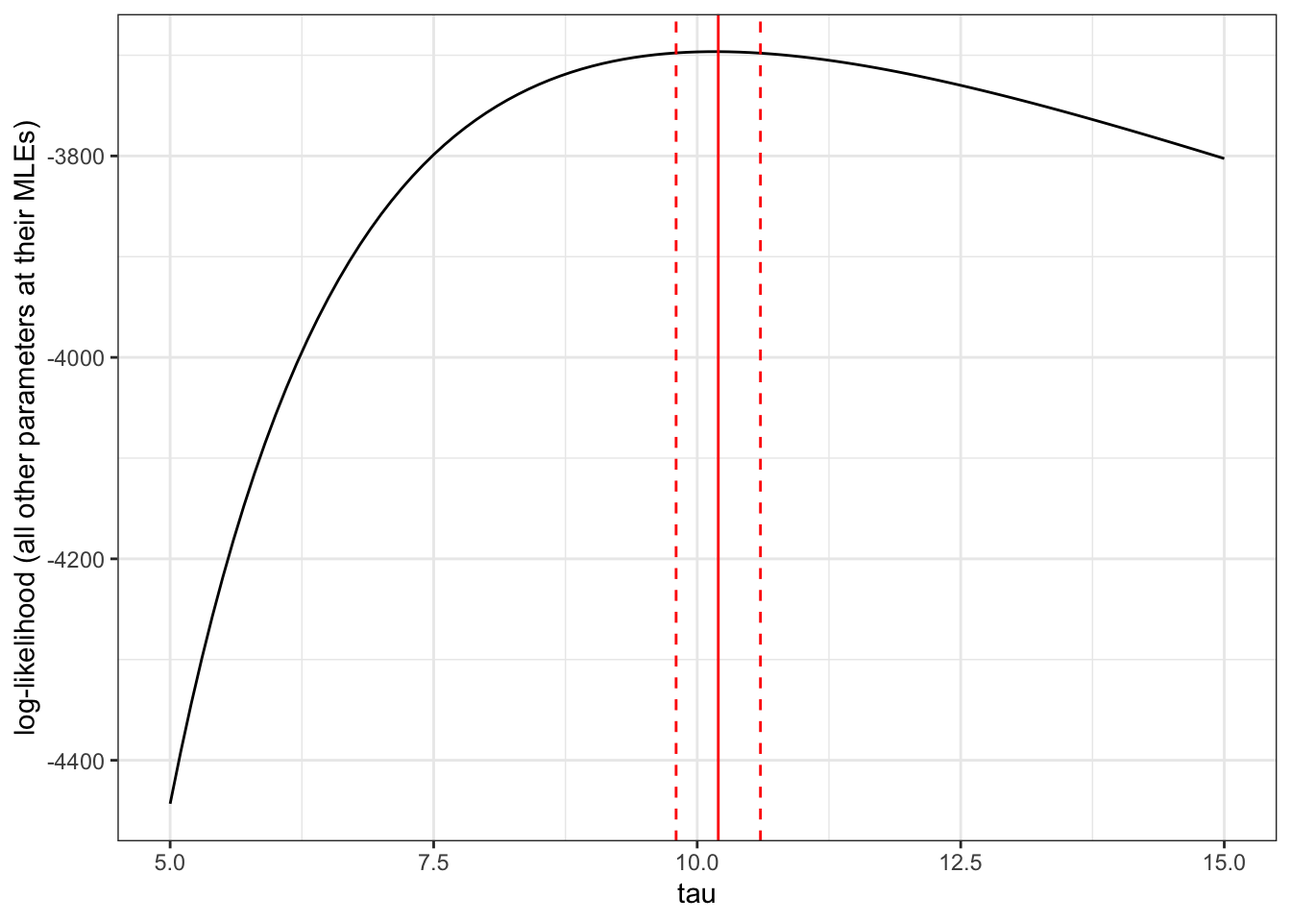
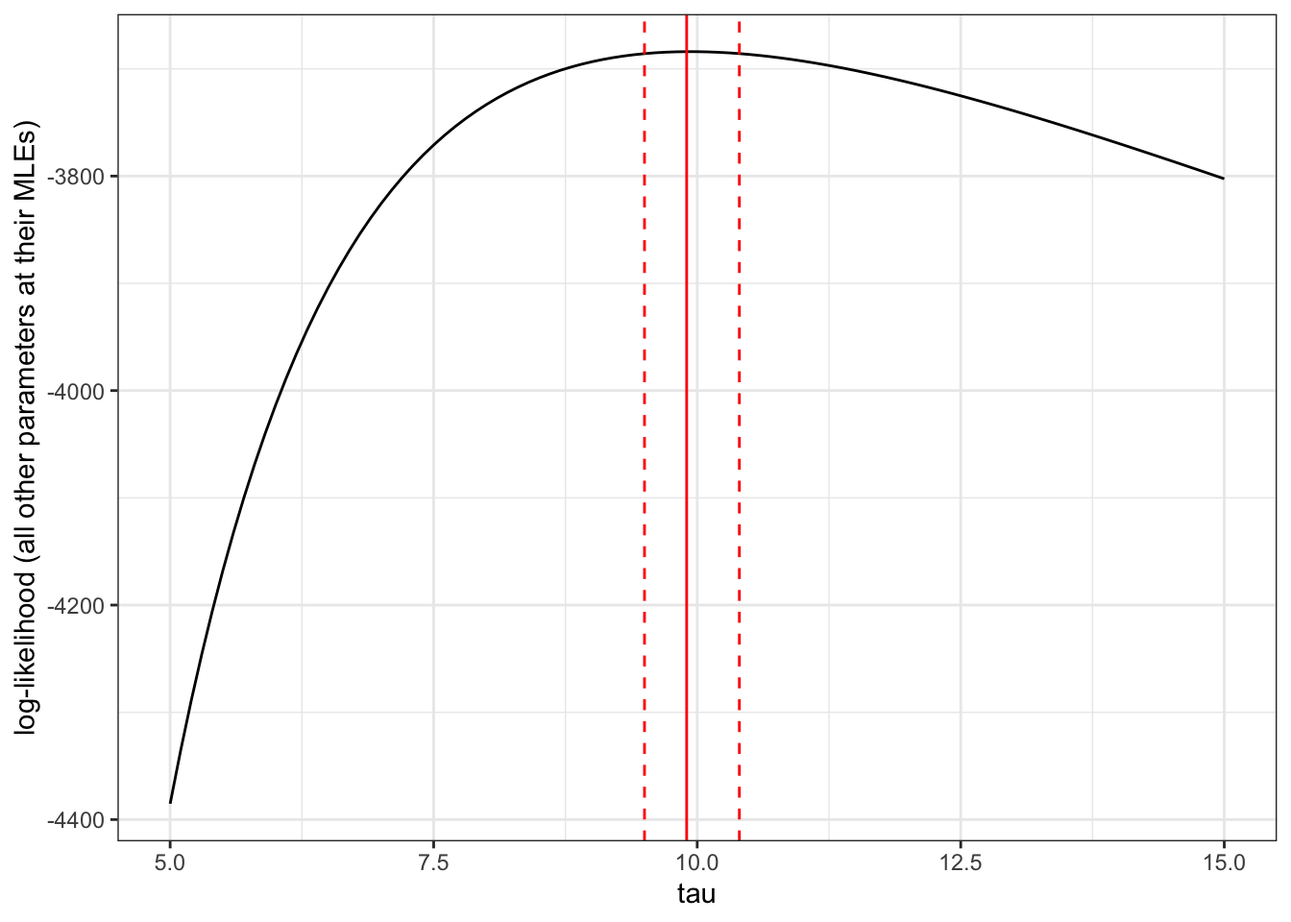
Built site for gh-pages

diff --git a/lec07-intro-to-stats.html b/lec07-intro-to-stats.html
@@ -352,7 +352,7 @@ pre > code.sourceCode > span > a:first-child::before { text-decoration: underlin
 <li>The probability of the event <span class="math inline">\(\Omega\)</span> must be <span class="math inline">\(=1\)</span>. <em>Something</em> must have happened!</li>
 <li>Countably many mutually exclusive events <span class="math inline">\(A_1,A_2,\dots,\)</span> must satisfy the following:</li>
 </ul>
-<p><span class="math display">\[\Pr (A_1 \text{ and } A_2 \text{ and } A_3 \text{ and } \cdots) = \sum_{i=1}^\infty \Pr (A_i)\]</span></p>
+<p><span class="math display">\[\Pr (A_1 \text{ or } A_2 \text{ or } A_3 \text{ or } \cdots) = \sum_{i=1}^\infty \Pr (A_i)\]</span></p>
 <p><span class="math inline">\(A_1,\dots,A_n,\dots\)</span> are mutually exclusive if <span class="math inline">\(A_i, A_j\)</span> do not share outcomes for all <span class="math inline">\(i \neq j\)</span>. (The events <span class="math inline">\(A_1 = \{1,2\}\)</span> and <span class="math inline">\(A_2 = \{3,4\}\)</span> are distinct, while the events <span class="math inline">\(A_1 = \{1,3\}\)</span> and <span class="math inline">\(A_2 = \{3,4\}\)</span> are not..)</p>
 <p>In the case of rolling a four-sided die, the probability of all events can be calculated (due to the extra conditions) by specifying what the probability of each outcome. Suppose <span class="math inline">\(\Pr(\{1\}) = 0.2, \Pr(\{2\}) = 0.3, \Pr(\{3\}) = \Pr(\{4\}) = 0.25\)</span>, i.e., the die is not fair but not horribly biased to one side.</p>
 <p>A random variable is <em>the (uncertain) outcome of a random experiment</em>; more precisely, a RV is a function from the sample space to the real numbers. In the above example, the experiment is the roll of a four-sided die and the outcomes are 1,2,3, and 4. The random variable, which we call <span class="math inline">\(X\)</span>, has an associated probability distribution: <span class="math inline">\(\Pr(X = 1) = 0.2, \Pr(X = 2) = 0.3, \Pr(X = 3) = \Pr(X = 4) = 0.25\)</span>. Capital letters are often used to denote random variables and lower case letters to denote the values they can assume (i.e., elements of their range). We can use this probability distribution to simulate realizations (draws) of <span class="math inline">\(X\)</span>, which correspond to repeatedly and independently preforming the experiment:</p>
@@ -364,9 +364,9 @@ pre > code.sourceCode > span > a:first-child::before { text-decoration: underlin
 <span id="cb2-5"><a href="#cb2-5" aria-hidden="true" tabindex="-1"></a>                                   <span class="at">replace =</span> T)</span>
 <span id="cb2-6"><a href="#cb2-6" aria-hidden="true" tabindex="-1"></a>realizations_N_die_rolls</span></code><button title="Copy to Clipboard" class="code-copy-button"><i class="bi"></i></button></pre></div>
 <div class="cell-output cell-output-stdout">
-<pre><code>  [1] 4 3 1 4 3 4 3 4 4 3 4 3 3 3 3 3 1 1 4 4 2 4 3 3 1 4 4 4 2 2 2 2 4 3 3 2 3
- [38] 2 2 2 3 1 1 3 1 2 2 4 4 2 2 3 2 1 2 2 3 2 4 4 2 1 2 4 2 1 2 2 4 4 2 3 2 3
- [75] 3 4 1 2 4 1 1 2 2 1 1 4 1 1 1 1 3 4 2 3 1 4 3 2 4 3</code></pre>
+<pre><code>  [1] 4 1 3 4 2 1 1 4 4 4 4 2 4 1 2 4 1 2 2 1 4 4 1 4 3 1 2 3 3 2 3 1 3 1 3 2 4
+ [38] 3 4 2 2 1 4 3 2 1 2 1 1 1 3 3 1 2 1 3 2 3 4 2 2 3 1 4 3 1 4 1 1 2 1 2 3 1
+ [75] 2 2 1 3 2 2 4 4 2 2 4 4 1 3 3 4 2 3 1 1 3 1 2 4 4 3</code></pre>
 </div>
 <div class="sourceCode cell-code" id="cb4"><pre class="sourceCode r code-with-copy"><code class="sourceCode r"><span id="cb4-1"><a href="#cb4-1" aria-hidden="true" tabindex="-1"></a>realizations_N_die_rolls <span class="ot">&lt;-</span> <span class="fu">data.frame</span>(<span class="at">value =</span> realizations_N_die_rolls)</span>
 <span id="cb4-2"><a href="#cb4-2" aria-hidden="true" tabindex="-1"></a><span class="fu">ggplot</span>(realizations_N_die_rolls, </span>
@@ -402,9 +402,9 @@ pre > code.sourceCode > span > a:first-child::before { text-decoration: underlin
 <span id="cb8-4"><a href="#cb8-4" aria-hidden="true" tabindex="-1"></a></span>
 <span id="cb8-5"><a href="#cb8-5" aria-hidden="true" tabindex="-1"></a><span class="fu">bernouli</span>(<span class="fl">0.1</span>, <span class="dv">100</span>) <span class="do">### 100 realizations of a Bernouli(p = 0.1) RV</span></span></code><button title="Copy to Clipboard" class="code-copy-button"><i class="bi"></i></button></pre></div>
 <div class="cell-output cell-output-stdout">
-<pre><code>  [1] 0 0 0 0 0 0 0 0 0 1 0 0 0 0 0 0 0 0 0 0 0 0 0 0 0 0 0 0 0 0 0 0 1 0 0 1 0
- [38] 0 0 0 0 0 0 1 0 0 0 0 0 0 0 0 0 0 0 0 0 0 0 0 0 0 0 0 0 0 0 0 0 0 0 0 0 1
- [75] 0 0 0 0 0 0 0 0 0 0 0 0 0 0 0 0 1 0 0 0 0 0 0 0 0 1</code></pre>
+<pre><code>  [1] 0 0 0 0 0 0 0 0 0 0 0 1 0 0 0 0 0 0 0 0 1 0 0 0 0 0 0 0 1 0 0 0 1 0 1 0 0
+ [38] 0 1 0 1 0 0 1 0 0 0 0 0 0 0 0 0 0 0 0 0 0 1 0 0 0 0 1 0 0 0 0 0 0 0 0 0 0
+ [75] 0 0 0 0 0 0 1 0 0 0 0 0 1 0 0 0 0 0 0 0 0 0 0 0 0 0</code></pre>
 </div>
 </div>
 <p>The distribution of a continuous random variable <span class="math inline">\(Y\)</span> is defined by a function <span class="math inline">\(f(y|\theta)\)</span> called its probability <em>density</em>. The probability of an event <span class="math inline">\(A\)</span> (for example, observing a number between 0.3 and 0.7) is</p>
@@ -433,33 +433,33 @@ pre > code.sourceCode > span > a:first-child::before { text-decoration: underlin
 <div class="cell">
 <div class="sourceCode cell-code" id="cb10"><pre class="sourceCode r code-with-copy"><code class="sourceCode r"><span id="cb10-1"><a href="#cb10-1" aria-hidden="true" tabindex="-1"></a><span class="fu">runif</span>(<span class="at">n =</span> <span class="dv">10</span>, <span class="at">min =</span> <span class="sc">-</span><span class="dv">1</span>, <span class="at">max =</span> <span class="dv">1</span>) </span></code><button title="Copy to Clipboard" class="code-copy-button"><i class="bi"></i></button></pre></div>
 <div class="cell-output cell-output-stdout">
-<pre><code> [1] -0.37415137 -0.03393897  0.03185400  0.91418626 -0.51541330 -0.85738356
- [7] -0.51953234  0.91770867  0.71289110  0.16875094</code></pre>
+<pre><code> [1]  0.15636411 -0.20077892 -0.88064871 -0.82728765 -0.83898775 -0.54711388
+ [7]  0.03401905 -0.82920443  0.78519119 -0.43522798</code></pre>
 </div>
 <div class="sourceCode cell-code" id="cb12"><pre class="sourceCode r code-with-copy"><code class="sourceCode r"><span id="cb12-1"><a href="#cb12-1" aria-hidden="true" tabindex="-1"></a><span class="do">## simulates n = 10 realizations of a Uniform(-1,1) RV</span></span>
 <span id="cb12-2"><a href="#cb12-2" aria-hidden="true" tabindex="-1"></a></span>
 <span id="cb12-3"><a href="#cb12-3" aria-hidden="true" tabindex="-1"></a><span class="fu">rnorm</span>(<span class="at">n =</span> <span class="dv">100</span>, <span class="at">mean =</span> <span class="dv">0</span>, <span class="at">sd =</span> <span class="dv">1</span>) </span></code><button title="Copy to Clipboard" class="code-copy-button"><i class="bi"></i></button></pre></div>
 <div class="cell-output cell-output-stdout">
-<pre><code>  [1] -1.450008285 -1.099175050 -1.771880083 -0.003474402 -0.419164240
-  [6]  0.148117869 -0.656621724  0.343281594  1.448432261 -0.986727958
- [11]  0.213492516 -1.412178247 -0.200019857  0.126506089 -0.088120914
- [16] -0.413828967  1.167968901  0.307745099 -0.893715094  2.423181010
- [21]  0.098870669  1.787328815  1.182899427 -0.582037363 -0.544926878
- [26]  0.310252011  0.089424524 -1.018390983 -1.297320527  0.508734561
- [31] -0.063710744 -0.147931150 -1.010600713  0.856663893 -0.287647586
- [36] -0.982098861 -1.386630469 -0.903174389 -1.354047734 -0.005649463
- [41]  0.454844583 -1.373568607  0.207754634  0.223410597  0.364600330
- [46]  0.437817347  0.901008202  0.007391572  0.569772448 -0.105738933
- [51]  1.080410485 -1.186737611 -1.359091064  2.035545208  1.030720376
- [56] -0.451897800  1.274458176 -0.439419879  0.452598905 -1.451493641
- [61] -0.093077059 -1.117527679 -0.573921186 -0.389542054 -1.377897644
- [66] -0.430060669 -0.691396103  1.127800788  0.317495946  0.037035325
- [71]  0.138501458 -0.480800849 -1.131834808 -0.383668598  0.552203413
- [76] -0.185439122 -0.706261772 -0.555666298  1.261878203  0.775816677
- [81]  0.872878988 -0.856951147  1.529001482  1.811246787 -0.450983781
- [86] -1.404805940 -0.442417102  0.307754488  1.074428161  0.217222945
- [91] -1.872763138 -0.651027052  1.295697750  1.134084818  0.934699647
- [96]  0.152441097  0.963475704 -1.075171992  1.703253849  0.562287979</code></pre>
+<pre><code>  [1]  0.186290074 -0.307937711 -2.622678373 -0.765204664  0.716497651
+  [6]  1.486331970  0.336537709 -1.081713954 -0.476078498 -0.101066067
+ [11]  0.506426027  0.291500534  1.165895662  0.058372734 -0.598438147
+ [16]  0.353840240  0.146578597 -0.007434363  1.324159542  0.351789896
+ [21]  1.444847301  2.291641722  0.299225870 -1.427721417 -2.075522467
+ [26]  0.824580748 -1.026758080 -0.010232511  0.925138202  0.746264240
+ [31] -1.348698236  0.877665936  0.130779064 -1.288444177 -0.427523196
+ [36]  1.359376519 -0.317637378 -0.392362348 -0.880304236 -1.751824169
+ [41]  0.299961563 -0.760556111  0.175842671  0.044080999 -2.379845778
+ [46] -0.950677547 -0.073163265 -1.037469121  0.829466198  0.886946345
+ [51]  1.946919881  0.181391994 -1.417795306 -1.164110758 -1.022604902
+ [56]  0.064447390 -0.042469422 -0.128506869 -0.247122555  1.648835340
+ [61]  0.713435303  0.875304907 -1.168102985 -0.562204766 -0.982372044
+ [66] -0.484452357 -0.745640397 -0.668713675  0.614189999  0.852368029
+ [71]  0.883268825  0.260853633  0.914052792 -0.130726903 -1.202054554
+ [76] -0.024219092 -2.330698737  0.296843791 -0.160916123 -1.524917133
+ [81] -0.027195507 -0.598613376  0.610849347 -0.175396971 -1.657720950
+ [86] -0.076994227 -0.662213930 -0.457348818 -0.261245626 -0.649377577
+ [91]  0.007464799 -0.928225025  1.026002667  0.636254820 -0.001171721
+ [96] -1.244819697 -0.279208235  0.198030642  0.225325294  0.305010754</code></pre>
 </div>
 <div class="sourceCode cell-code" id="cb14"><pre class="sourceCode r code-with-copy"><code class="sourceCode r"><span id="cb14-1"><a href="#cb14-1" aria-hidden="true" tabindex="-1"></a><span class="do">## simulates n = 100 realizations of a Normal(mean = 0, variance = 1) RV</span></span>
 <span id="cb14-2"><a href="#cb14-2" aria-hidden="true" tabindex="-1"></a><span class="do">## sd stands for standard deviation, and is the sqrt of the variance</span></span></code><button title="Copy to Clipboard" class="code-copy-button"><i class="bi"></i></button></pre></div>
@@ -470,9 +470,9 @@ pre > code.sourceCode > span > a:first-child::before { text-decoration: underlin
 <div class="sourceCode cell-code" id="cb15"><pre class="sourceCode r code-with-copy"><code class="sourceCode r"><span id="cb15-1"><a href="#cb15-1" aria-hidden="true" tabindex="-1"></a>X <span class="ot">&lt;-</span> <span class="fu">rnorm</span>(<span class="at">n =</span> <span class="dv">20</span>, <span class="at">mean =</span> <span class="dv">0</span>, <span class="at">sd =</span> <span class="dv">1</span>) </span>
 <span id="cb15-2"><a href="#cb15-2" aria-hidden="true" tabindex="-1"></a>X<span class="sc">^</span><span class="dv">2</span> <span class="sc">+</span> <span class="dv">6</span></span></code><button title="Copy to Clipboard" class="code-copy-button"><i class="bi"></i></button></pre></div>
 <div class="cell-output cell-output-stdout">
-<pre><code> [1] 7.070448 6.472680 7.279192 7.066448 7.758595 7.522198 7.296370 6.264295
- [9] 6.379983 6.562335 7.314473 7.422053 6.988016 8.412249 6.261534 6.569514
-[17] 7.877016 7.151036 6.036945 6.077433</code></pre>
+<pre><code> [1]  6.062220  6.867856  8.214874  7.418558  9.682806  6.005157  6.614497
+ [8]  6.547621  7.410111  7.335798  6.004382  8.010974  6.007929  6.670386
+[15]  7.653885  6.025811  7.122227  6.066434  6.071414 10.011871</code></pre>
 </div>
 </div>
 </section>
@@ -511,7 +511,7 @@ pre > code.sourceCode > span > a:first-child::before { text-decoration: underlin
 <span id="cb17-5"><a href="#cb17-5" aria-hidden="true" tabindex="-1"></a></span>
 <span id="cb17-6"><a href="#cb17-6" aria-hidden="true" tabindex="-1"></a><span class="fu">exponential_MLE</span>()</span></code><button title="Copy to Clipboard" class="code-copy-button"><i class="bi"></i></button></pre></div>
 <div class="cell-output cell-output-stdout">
-<pre><code>[1] 4.953669</code></pre>
+<pre><code>[1] 4.914377</code></pre>
 </div>
 <div class="sourceCode cell-code" id="cb19"><pre class="sourceCode r code-with-copy"><code class="sourceCode r"><span id="cb19-1"><a href="#cb19-1" aria-hidden="true" tabindex="-1"></a>estimator <span class="ot">&lt;-</span> <span class="fu">c</span>()</span>
 <span id="cb19-2"><a href="#cb19-2" aria-hidden="true" tabindex="-1"></a>N <span class="ot">&lt;-</span> <span class="dv">1000</span> <span class="do">### number of n=100 exponential draws</span></span>
@@ -576,8 +576,8 @@ pre > code.sourceCode > span > a:first-child::before { text-decoration: underlin
 <span id="cb21-30"><a href="#cb21-30" aria-hidden="true" tabindex="-1"></a><span class="do">### returns which parameters gave rise to max likelihood</span></span>
 <span id="cb21-31"><a href="#cb21-31" aria-hidden="true" tabindex="-1"></a>MLE <span class="ot">&lt;-</span> log_likelihood <span class="sc">%&gt;%</span> <span class="fu">subset</span>(LL <span class="sc">==</span> <span class="fu">max</span>(LL)); MLE</span></code><button title="Copy to Clipboard" class="code-copy-button"><i class="bi"></i></button></pre></div>
 <div class="cell-output cell-output-stdout">
-<pre><code>             LL mean1 mean2 sd1  sd2
-21361 -3696.416  -0.5    10   1 10.2</code></pre>
+<pre><code>             LL mean1 mean2 sd1 sd2
+20143 -3683.958     0   9.5   1 9.9</code></pre>
 </div>
 <div class="sourceCode cell-code" id="cb23"><pre class="sourceCode r code-with-copy"><code class="sourceCode r"><span id="cb23-1"><a href="#cb23-1" aria-hidden="true" tabindex="-1"></a>log_likelihood <span class="sc">%&gt;%</span> <span class="fu">subset</span>(mean1 <span class="sc">==</span> MLE<span class="sc">$</span>mean1 <span class="sc">&amp;</span> </span>
 <span id="cb23-2"><a href="#cb23-2" aria-hidden="true" tabindex="-1"></a>                         mean2 <span class="sc">==</span> MLE<span class="sc">$</span>mean2 <span class="sc">&amp;</span> sd1 <span class="sc">==</span> MLE<span class="sc">$</span>sd1) <span class="sc">%&gt;%</span></span>
@@ -628,11 +628,11 @@ pre > code.sourceCode > span > a:first-child::before { text-decoration: underlin
 <span id="cb25-4"><a href="#cb25-4" aria-hidden="true" tabindex="-1"></a>test_statistic <span class="ot">&lt;-</span> <span class="sc">-</span><span class="dv">2</span><span class="sc">*</span>(likelihood_at_null<span class="sc">$</span>LL <span class="sc">-</span> MLE<span class="sc">$</span>LL) </span>
 <span id="cb25-5"><a href="#cb25-5" aria-hidden="true" tabindex="-1"></a>test_statistic <span class="do">### realized value of the likelihood ratio test statistic</span></span></code><button title="Copy to Clipboard" class="code-copy-button"><i class="bi"></i></button></pre></div>
 <div class="cell-output cell-output-stdout">
-<pre><code>[1] 2.949136</code></pre>
+<pre><code>[1] 1.487446</code></pre>
 </div>
 <div class="sourceCode cell-code" id="cb27"><pre class="sourceCode r code-with-copy"><code class="sourceCode r"><span id="cb27-1"><a href="#cb27-1" aria-hidden="true" tabindex="-1"></a><span class="fu">pchisq</span>(test_statistic, <span class="at">df =</span> <span class="dv">1</span>, <span class="at">lower.tail =</span> <span class="cn">FALSE</span>)</span></code><button title="Copy to Clipboard" class="code-copy-button"><i class="bi"></i></button></pre></div>
 <div class="cell-output cell-output-stdout">
-<pre><code>[1] 0.08592347</code></pre>
+<pre><code>[1] 0.2226131</code></pre>
 </div>
 <div class="sourceCode cell-code" id="cb29"><pre class="sourceCode r code-with-copy"><code class="sourceCode r"><span id="cb29-1"><a href="#cb29-1" aria-hidden="true" tabindex="-1"></a><span class="do">### if p &lt; 0.05, then we reject H0; otherwise, we fail to reject H0</span></span></code><button title="Copy to Clipboard" class="code-copy-button"><i class="bi"></i></button></pre></div>
 </div>
@@ -645,11 +645,11 @@ pre > code.sourceCode > span > a:first-child::before { text-decoration: underlin
 <span id="cb30-4"><a href="#cb30-4" aria-hidden="true" tabindex="-1"></a>test_statistic <span class="ot">&lt;-</span> <span class="sc">-</span><span class="dv">2</span><span class="sc">*</span>(likelihood_at_null<span class="sc">$</span>LL <span class="sc">-</span> MLE<span class="sc">$</span>LL) </span>
 <span id="cb30-5"><a href="#cb30-5" aria-hidden="true" tabindex="-1"></a>test_statistic <span class="do">### realized value of the likelihood ratio test statistic</span></span></code><button title="Copy to Clipboard" class="code-copy-button"><i class="bi"></i></button></pre></div>
 <div class="cell-output cell-output-stdout">
-<pre><code>[1] 1520.099</code></pre>
+<pre><code>[1] 1394.297</code></pre>
 </div>
 <div class="sourceCode cell-code" id="cb32"><pre class="sourceCode r code-with-copy"><code class="sourceCode r"><span id="cb32-1"><a href="#cb32-1" aria-hidden="true" tabindex="-1"></a><span class="fu">pchisq</span>(test_statistic, <span class="at">df =</span> <span class="dv">1</span>, <span class="at">lower.tail =</span> <span class="cn">FALSE</span>)</span></code><button title="Copy to Clipboard" class="code-copy-button"><i class="bi"></i></button></pre></div>
 <div class="cell-output cell-output-stdout">
-<pre><code>[1] 0</code></pre>
+<pre><code>[1] 3.64416e-305</code></pre>
 </div>
 <div class="sourceCode cell-code" id="cb34"><pre class="sourceCode r code-with-copy"><code class="sourceCode r"><span id="cb34-1"><a href="#cb34-1" aria-hidden="true" tabindex="-1"></a><span class="do">### if p &lt; 0.05, then we reject H0; otherwise, we fail to reject H0</span></span></code><button title="Copy to Clipboard" class="code-copy-button"><i class="bi"></i></button></pre></div>
 </div>
@@ -669,7 +669,7 @@ pre > code.sourceCode > span > a:first-child::before { text-decoration: underlin
 <span id="cb35-9"><a href="#cb35-9" aria-hidden="true" tabindex="-1"></a><span class="fu">c</span>(<span class="fu">min</span>(values_inconfidence_interval<span class="sc">$</span>sd2),</span>
 <span id="cb35-10"><a href="#cb35-10" aria-hidden="true" tabindex="-1"></a>  <span class="fu">max</span>(values_inconfidence_interval<span class="sc">$</span>sd2)) <span class="do">### confidence interval!</span></span></code><button title="Copy to Clipboard" class="code-copy-button"><i class="bi"></i></button></pre></div>
 <div class="cell-output cell-output-stdout">
-<pre><code>[1]  9.8 10.6</code></pre>
+<pre><code>[1]  9.5 10.4</code></pre>
 </div>
 <div class="sourceCode cell-code" id="cb37"><pre class="sourceCode r code-with-copy"><code class="sourceCode r"><span id="cb37-1"><a href="#cb37-1" aria-hidden="true" tabindex="-1"></a>LL_plot <span class="sc">%&gt;%</span> <span class="fu">ggplot</span>(<span class="fu">aes</span>(<span class="at">x =</span> sd2, <span class="at">y =</span> LL)) <span class="sc">+</span> <span class="fu">geom_line</span>() <span class="sc">+</span></span>
 <span id="cb37-2"><a href="#cb37-2" aria-hidden="true" tabindex="-1"></a>  <span class="fu">geom_vline</span>(<span class="at">xintercept =</span> MLE<span class="sc">$</span>sd2, <span class="at">color =</span> <span class="st">"red"</span>) <span class="sc">+</span></span>
@@ -705,13 +705,13 @@ pre > code.sourceCode > span > a:first-child::before { text-decoration: underlin
     One Sample t-test
 
 data:  data
-t = -1.8406, df = 99, p-value = 0.06867
+t = -1.0838, df = 99, p-value = 0.2811
 alternative hypothesis: true mean is not equal to 0.25
 1 percent confidence interval:
- 0.04857995 0.05131130
+ 0.1478576 0.1501988
 sample estimates:
- mean of x 
-0.04994562 </code></pre>
+mean of x 
+0.1490282 </code></pre>
 </div>
 </div>
 <section id="tests-of-the-equality-of-group-means" class="level3" data-number="9.7.1">
@@ -727,13 +727,13 @@ sample estimates:
     Welch Two Sample t-test
 
 data:  obs1 and obs2
-t = -8.8314, df = 114.8, p-value = 1.376e-14
+t = -9.0778, df = 115.36, p-value = 3.566e-15
 alternative hypothesis: true difference in means is not equal to 0
 95 percent confidence interval:
- -1.2545436 -0.7948685
+ -1.2893837 -0.8274911
 sample estimates:
   mean of x   mean of y 
--0.03051807  0.99418796 </code></pre>
+-0.04536581  1.01307161 </code></pre>
 </div>
 <div class="sourceCode cell-code" id="cb42"><pre class="sourceCode r code-with-copy"><code class="sourceCode r"><span id="cb42-1"><a href="#cb42-1" aria-hidden="true" tabindex="-1"></a><span class="do">### alternatively, one can use the following syntax:</span></span>
 <span id="cb42-2"><a href="#cb42-2" aria-hidden="true" tabindex="-1"></a></span>
@@ -746,13 +746,13 @@ sample estimates:
     Welch Two Sample t-test
 
 data:  obs by ID
-t = -8.8314, df = 114.8, p-value = 1.376e-14
+t = -9.0778, df = 115.36, p-value = 3.566e-15
 alternative hypothesis: true difference in means between group 1 and group 2 is not equal to 0
 95 percent confidence interval:
- -1.2545436 -0.7948685
+ -1.2893837 -0.8274911
 sample estimates:
 mean in group 1 mean in group 2 
-    -0.03051807      0.99418796 </code></pre>
+    -0.04536581      1.01307161 </code></pre>
 </div>
 <div class="sourceCode cell-code" id="cb44"><pre class="sourceCode r code-with-copy"><code class="sourceCode r"><span id="cb44-1"><a href="#cb44-1" aria-hidden="true" tabindex="-1"></a><span class="co"># anova(lm(obs~ID, data))</span></span></code><button title="Copy to Clipboard" class="code-copy-button"><i class="bi"></i></button></pre></div>
 </div>

diff --git a/lec08-linear-models.html b/lec08-linear-models.html
@@ -682,18 +682,18 @@ lm(formula = fitness ~ scale(trait), data = data)
 
 Residuals:
      Min       1Q   Median       3Q      Max 
--0.40581 -0.10331  0.01434  0.13923  0.31198 
+-0.46109 -0.07817  0.01994  0.09612  0.26859 
 
 Coefficients:
              Estimate Std. Error t value Pr(&gt;|t|)    
-(Intercept)   1.00000    0.01621   61.71   &lt;2e-16 ***
-scale(trait)  0.40401    0.01629   24.81   &lt;2e-16 ***
+(Intercept)   1.00000    0.01511   66.20   &lt;2e-16 ***
+scale(trait)  0.33314    0.01518   21.94   &lt;2e-16 ***
 ---
 Signif. codes:  0 '***' 0.001 '**' 0.01 '*' 0.05 '.' 0.1 ' ' 1
 
-Residual standard error: 0.1621 on 98 degrees of freedom
-Multiple R-squared:  0.8626,    Adjusted R-squared:  0.8612 
-F-statistic: 615.3 on 1 and 98 DF,  p-value: &lt; 2.2e-16</code></pre>
+Residual standard error: 0.1511 on 98 degrees of freedom
+Multiple R-squared:  0.8309,    Adjusted R-squared:  0.8292 
+F-statistic: 481.5 on 1 and 98 DF,  p-value: &lt; 2.2e-16</code></pre>
 </div>
 <div class="sourceCode cell-code" id="cb34"><pre class="sourceCode r code-with-copy"><code class="sourceCode r"><span id="cb34-1"><a href="#cb34-1" aria-hidden="true" tabindex="-1"></a><span class="do">### fitness changed by ~50% per sd change in trait value!</span></span>
 <span id="cb34-2"><a href="#cb34-2" aria-hidden="true" tabindex="-1"></a></span>
@@ -715,19 +715,19 @@ lm(formula = fitness ~ scale(trait) + scale(trait^2), data = data)
 
 Residuals:
       Min        1Q    Median        3Q       Max 
--0.165498 -0.063773 -0.005416  0.054972  0.203885 
+-0.166024 -0.055541 -0.003314  0.060323  0.184896 
 
 Coefficients:
                 Estimate Std. Error t value Pr(&gt;|t|)    
-(Intercept)     1.000000   0.008797  113.67   &lt;2e-16 ***
-scale(trait)    0.915590   0.034486   26.55   &lt;2e-16 ***
-scale(trait^2) -0.529271   0.034486  -15.35   &lt;2e-16 ***
+(Intercept)     1.000000   0.008273  120.88   &lt;2e-16 ***
+scale(trait)    0.777563   0.030474   25.52   &lt;2e-16 ***
+scale(trait^2) -0.461952   0.030474  -15.16   &lt;2e-16 ***
 ---
 Signif. codes:  0 '***' 0.001 '**' 0.01 '*' 0.05 '.' 0.1 ' ' 1
 
-Residual standard error: 0.08797 on 97 degrees of freedom
-Multiple R-squared:  0.9599,    Adjusted R-squared:  0.9591 
-F-statistic:  1162 on 2 and 97 DF,  p-value: &lt; 2.2e-16</code></pre>
+Residual standard error: 0.08273 on 97 degrees of freedom
+Multiple R-squared:  0.9498,    Adjusted R-squared:  0.9488 
+F-statistic: 917.6 on 2 and 97 DF,  p-value: &lt; 2.2e-16</code></pre>
 </div>
 </div>
 <p>Here, the blue (red) regression line is the linear (quadratic) individual selection surface, estimated by regressing fitness on trait value (and its square) simulated under a model of directional selection.</p>
@@ -846,21 +846,21 @@ glm(formula = disease_status ~ scale(age), family = binomial,
     data = data)
 
 Deviance Residuals: 
-    Min       1Q   Median       3Q      Max  
--1.7035  -1.0259  -0.5384   1.0158   1.9240  
+     Min        1Q    Median        3Q       Max  
+-1.86005  -0.97083  -0.03031   1.04883   1.74735  
 
 Coefficients:
             Estimate Std. Error z value Pr(&gt;|z|)    
-(Intercept)  -0.2000     0.2209  -0.906 0.365181    
-scale(age)    0.9469     0.2487   3.807 0.000141 ***
+(Intercept) 0.009611   0.217621   0.044 0.964775    
+scale(age)  0.880024   0.237002   3.713 0.000205 ***
 ---
 Signif. codes:  0 '***' 0.001 '**' 0.01 '*' 0.05 '.' 0.1 ' ' 1
 
 (Dispersion parameter for binomial family taken to be 1)
 
-    Null deviance: 137.99  on 99  degrees of freedom
-Residual deviance: 120.16  on 98  degrees of freedom
-AIC: 124.16
+    Null deviance: 138.63  on 99  degrees of freedom
+Residual deviance: 122.38  on 98  degrees of freedom
+AIC: 126.38
 
 Number of Fisher Scoring iterations: 4</code></pre>
 </div>
@@ -897,35 +897,35 @@ Number of Fisher Scoring iterations: 4</code></pre>
 <tbody>
 <tr class="odd">
 <td style="text-align: right;">100</td>
-<td style="text-align: right;">0.877</td>
+<td style="text-align: right;">0.887</td>
 </tr>
 <tr class="even">
 <td style="text-align: right;">110</td>
-<td style="text-align: right;">0.907</td>
+<td style="text-align: right;">0.917</td>
 </tr>
 <tr class="odd">
 <td style="text-align: right;">120</td>
-<td style="text-align: right;">0.937</td>
+<td style="text-align: right;">0.934</td>
 </tr>
 <tr class="even">
 <td style="text-align: right;">130</td>
-<td style="text-align: right;">0.964</td>
+<td style="text-align: right;">0.953</td>
 </tr>
 <tr class="odd">
 <td style="text-align: right;">140</td>
-<td style="text-align: right;">0.975</td>
+<td style="text-align: right;">0.968</td>
 </tr>
 <tr class="even">
 <td style="text-align: right;">150</td>
-<td style="text-align: right;">0.985</td>
+<td style="text-align: right;">0.978</td>
 </tr>
 <tr class="odd">
 <td style="text-align: right;">160</td>
-<td style="text-align: right;">0.982</td>
+<td style="text-align: right;">0.985</td>
 </tr>
 <tr class="even">
 <td style="text-align: right;">170</td>
-<td style="text-align: right;">0.994</td>
+<td style="text-align: right;">0.985</td>
 </tr>
 <tr class="odd">
 <td style="text-align: right;">180</td>
@@ -933,11 +933,11 @@ Number of Fisher Scoring iterations: 4</code></pre>
 </tr>
 <tr class="even">
 <td style="text-align: right;">190</td>
-<td style="text-align: right;">0.995</td>
+<td style="text-align: right;">0.998</td>
 </tr>
 <tr class="odd">
 <td style="text-align: right;">200</td>
-<td style="text-align: right;">0.996</td>
+<td style="text-align: right;">0.997</td>
 </tr>
 </tbody>
 </table>
